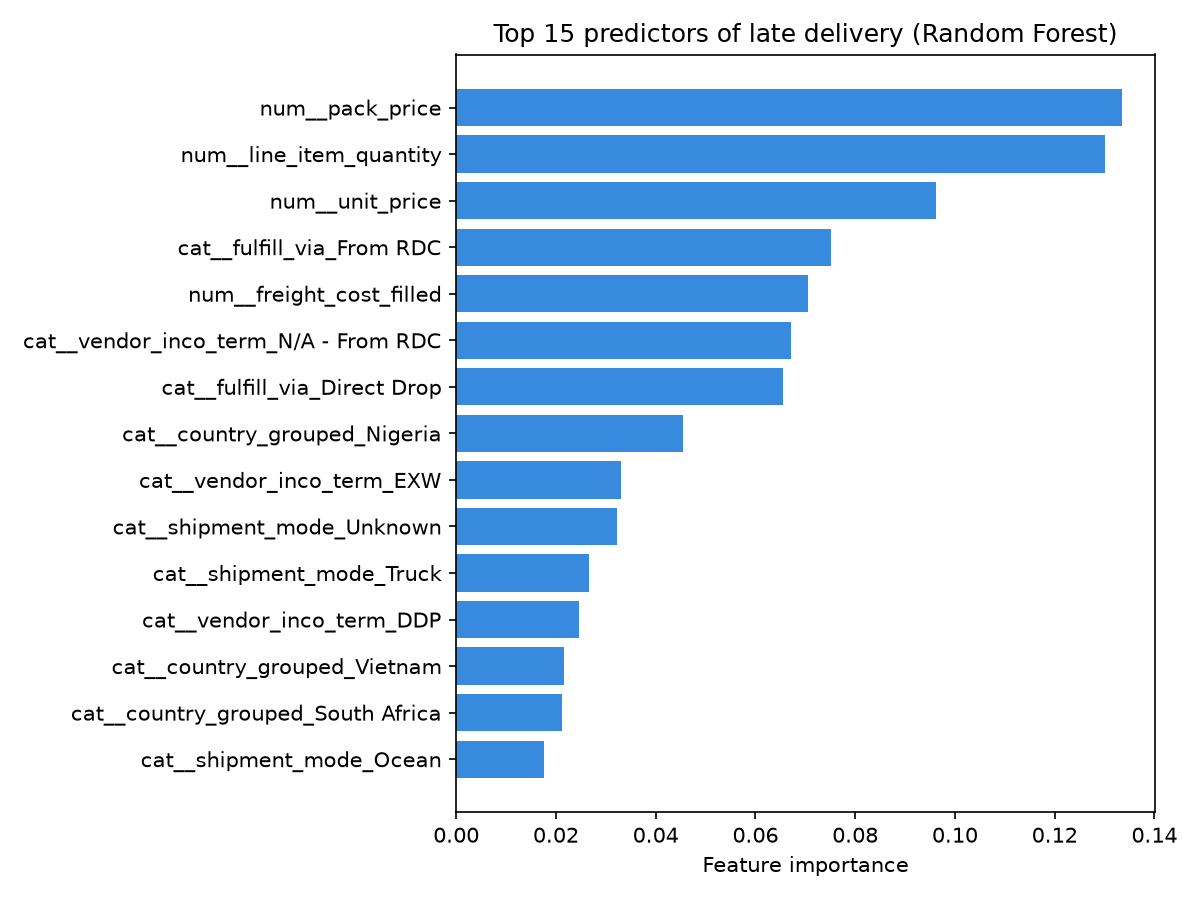
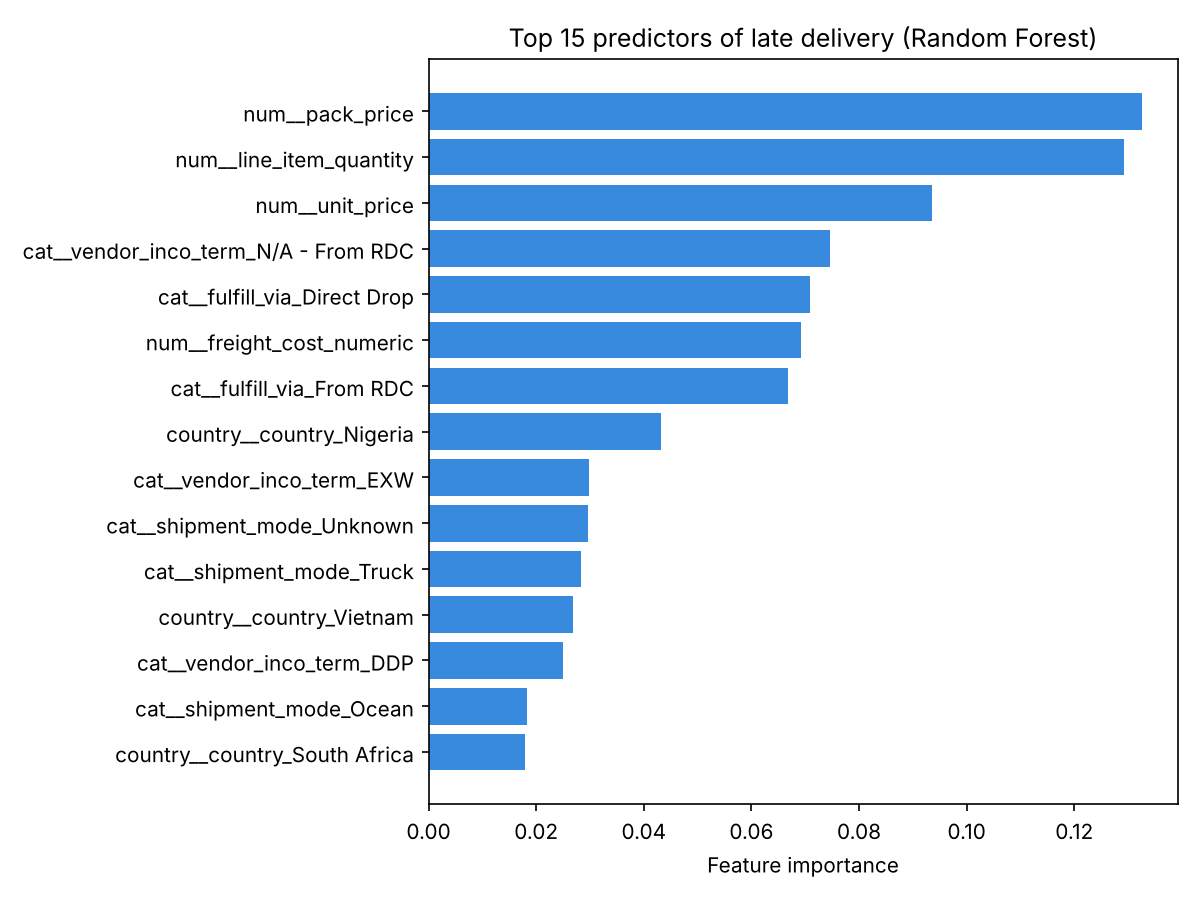
Fit preprocessing on training data only and correct model claims
Country grouping and freight-cost imputation now sit inside the model pipeline. Results at the default 0.5 cut-off: ROC-AUC 0.82, 90% recall, 23% precision. Removed the threshold-tuning claim and described route differences as associations.

Changed region(s): [[0.0308, 0.0622, 0.9867, 0.9956], [0.4008, 0.0311, 0.9558, 0.0622], [0.6475, 0.3422, 0.6783, 0.4356]]

diff --git a/predict_late_deliveries.py b/predict_late_deliveries.py
@@ -1,120 +1,134 @@
+"""
+Late-delivery classification for USAID health-commodity shipments.
+
+Every step that learns from the data (country grouping, freight-cost imputation,
+scaling, encoding) is fitted on the training split only, inside the model pipeline.
+The test split is touched once, for evaluation.
+
+Results are reported at the default 0.5 probability cut-off. No threshold is tuned.
+Balanced class weights make the models favour catching late shipments (recall)
+over precision, because only 11.5% of shipments are late.
+"""
+import matplotlib.pyplot as plt
+import numpy as np
 import pandas as pd
+from sklearn.base import BaseEstimator, TransformerMixin
+from sklearn.compose import ColumnTransformer
+from sklearn.ensemble import RandomForestClassifier
+from sklearn.impute import SimpleImputer
+from sklearn.linear_model import LogisticRegression
+from sklearn.metrics import (average_precision_score, classification_report,
+                             confusion_matrix, roc_auc_score)
+from sklearn.model_selection import train_test_split
+from sklearn.pipeline import Pipeline
+from sklearn.preprocessing import OneHotEncoder, StandardScaler
 
 # --- Step 1: Load the SQL-validated, cleaned dataset ---
 df = pd.read_csv("data/shipments_for_powerbi.csv")
-
 print("Shape:", df.shape)
-print("\nColumns:", list(df.columns))
-print("\nMissing values (top 10):")
-print(df.isna().sum().sort_values(ascending=False).head(10))
 
-# Target: was this shipment delivered late?
+# Target: was this shipment delivered after its scheduled date?
 df["is_late"] = (df["delay_days"] > 0).astype(int)
-print("\nTarget distribution:")
-print(df["is_late"].value_counts(normalize=True).round(3))
+print("Late rate:", round(df["is_late"].mean(), 3))
 
-# --- Step 2: Feature engineering ---
-# Excluded on purpose (leakage): delivered_to_client_date, delivery_recorded_date,
-# delay_days -- these are only known AFTER delivery, i.e. after the outcome
-# we're predicting. Only features knowable at ship time go in.
+# --- Step 2: Features known at ship time ---
+# Excluded on purpose (leakage): delivered_to_client_date, delivery_recorded_date and
+# delay_days are only known after delivery, i.e. after the outcome being predicted.
+cat_cols = ["shipment_mode", "country", "product_group", "vendor_inco_term", "fulfill_via"]
+num_cols = ["line_item_quantity", "pack_price", "unit_price", "freight_cost_numeric"]
 
-candidate_categoricals = ["shipment_mode", "country", "product_group",
-                           "vendor_inco_term", "fulfill_via", "managed_by"]
-print("\n--- Cardinality of candidate categorical features ---")
-for c in candidate_categoricals:
-    print(f"{c}: {df[c].nunique()} unique values")
-
-# Country has too many rare categories to one-hot encode cleanly -- group
-# anything below the same n>=30 threshold used in the EDA/SQL work into 'Other'.
-country_counts = df["country"].value_counts()
-frequent_countries = country_counts[country_counts >= 30].index
-df["country_grouped"] = df["country"].where(df["country"].isin(frequent_countries), "Other")
-print(f"\nCountries kept individually: {len(frequent_countries)}, rest grouped into 'Other'")
-
-# Missing shipment_mode and missing freight_cost are informative on their own
-# (found in EDA to correlate with lateness/cost) -- keep as explicit categories/flags
-# rather than dropping or silently imputing them away.
-df["shipment_mode"] = df["shipment_mode"].fillna("Unknown")
-df["freight_missing"] = df["freight_cost_numeric"].isna().astype(int)
-df["freight_cost_filled"] = df["freight_cost_numeric"].fillna(df["freight_cost_numeric"].median())
-
-feature_cols_cat = ["shipment_mode", "country_grouped", "product_group",
-                     "vendor_inco_term", "fulfill_via"]
-feature_cols_num = ["line_item_quantity", "pack_price", "unit_price",
-                     "freight_cost_filled", "freight_missing"]
-
-print("\nFinal feature set:")
-print("Categorical:", feature_cols_cat)
-print("Numeric:", feature_cols_num)
-
-# --- Step 3: Train/test split + preprocessing pipeline ---
-from sklearn.model_selection import train_test_split
-from sklearn.compose import ColumnTransformer
-from sklearn.preprocessing import OneHotEncoder, StandardScaler
-from sklearn.pipeline import Pipeline
-
-X = df[feature_cols_cat + feature_cols_num]
+X = df[cat_cols + num_cols]
 y = df["is_late"]
 
+# --- Step 3: Split first, so nothing below learns from the test rows ---
 X_train, X_test, y_train, y_test = train_test_split(
-    X, y, test_size=0.2, random_state=42, stratify=y
-)
-print(f"\nTrain: {X_train.shape[0]} rows, Test: {X_test.shape[0]} rows")
-print("Train target rate:", round(y_train.mean(), 3), "| Test target rate:", round(y_test.mean(), 3))
+    X, y, test_size=0.2, random_state=42, stratify=y)
+print(f"Train: {len(X_train)} rows, test: {len(X_test)} rows")
 
-preprocessor = ColumnTransformer(transformers=[
-    ("cat", OneHotEncoder(handle_unknown="ignore"), feature_cols_cat),
-    ("num", StandardScaler(), feature_cols_num),
+
+class GroupRareCategories(BaseEstimator, TransformerMixin):
+    """Replace categories seen fewer than `min_count` times in TRAINING data with 'Other'."""
+
+    def __init__(self, min_count=30):
+        self.min_count = min_count
+
+    def fit(self, X, y=None):
+        X = pd.DataFrame(X)
+        self.keep_ = {c: set(X[c].value_counts().loc[lambda s: s >= self.min_count].index)
+                      for c in X.columns}
+        return self
+
+    def transform(self, X):
+        X = pd.DataFrame(X).copy()
+        for c, keep in self.keep_.items():
+            X[c] = X[c].where(X[c].isin(keep), "Other")
+        return X
+
+    def get_feature_names_out(self, input_features=None):
+        return np.asarray(input_features if input_features is not None else list(self.keep_))
+
+
+categorical = Pipeline([
+    # Missing shipment mode is informative in the EDA, so it becomes its own category.
+    ("fill", SimpleImputer(strategy="constant", fill_value="Unknown")),
+    ("to_frame", GroupRareCategories(min_count=1).set_output(transform="pandas")),
+    ("onehot", OneHotEncoder(handle_unknown="ignore")),
 ])
+country = Pipeline([
+    ("fill", SimpleImputer(strategy="constant", fill_value="Unknown")),
+    # Countries with fewer than 30 training shipments are grouped, as in the EDA and SQL work.
+    ("group", GroupRareCategories(min_count=30).set_output(transform="pandas")),
+    ("onehot", OneHotEncoder(handle_unknown="ignore")),
+])
+numeric = Pipeline([
+    # Median from the training split only; the indicator keeps "freight cost missing" as a signal.
+    ("impute", SimpleImputer(strategy="median", add_indicator=True)),
+    ("scale", StandardScaler()),
+])
+preprocessor = ColumnTransformer([
+    ("cat", categorical, [c for c in cat_cols if c != "country"]),
+    ("country", country, ["country"]),
+    ("num", numeric, num_cols),
+]).set_output(transform="default")
 
 # --- Step 4: Train two models ---
-# class_weight="balanced" matters here: only 11.5% of shipments are late,
-# so an unweighted model could just predict "never late" and still be 88.5% "accurate".
-from sklearn.linear_model import LogisticRegression
-from sklearn.ensemble import RandomForestClassifier
+models = {
+    "Logistic Regression": LogisticRegression(max_iter=2000, class_weight="balanced", random_state=42),
+    "Random Forest": RandomForestClassifier(n_estimators=300, max_depth=8, class_weight="balanced",
+                                            random_state=42, n_jobs=-1),
+}
+fitted = {}
+for name, est in models.items():
+    fitted[name] = Pipeline([("prep", preprocessor), ("model", est)]).fit(X_train, y_train)
 
-log_reg = Pipeline([
-    ("prep", preprocessor),
-    ("model", LogisticRegression(max_iter=1000, class_weight="balanced", random_state=42)),
-])
-log_reg.fit(X_train, y_train)
-print("Logistic Regression trained.")
-
-rf = Pipeline([
-    ("prep", preprocessor),
-    ("model", RandomForestClassifier(n_estimators=300, max_depth=8,
-                                      class_weight="balanced", random_state=42, n_jobs=-1)),
-])
-rf.fit(X_train, y_train)
-print("Random Forest trained.")
-
-# --- Step 5: Evaluate on held-out test set ---
-from sklearn.metrics import classification_report, confusion_matrix, roc_auc_score
-
-for name, model in [("Logistic Regression", log_reg), ("Random Forest", rf)]:
+# --- Step 5: Evaluate once on the held-out test split (0.5 cut-off) ---
+results = []
+for name, model in fitted.items():
     preds = model.predict(X_test)
     probs = model.predict_proba(X_test)[:, 1]
+    tn, fp, fn, tp = confusion_matrix(y_test, preds).ravel()
+    results.append({"model": name, "roc_auc": roc_auc_score(y_test, probs),
+                    "pr_auc": average_precision_score(y_test, probs),
+                    "recall_late": tp / (tp + fn), "precision_late": tp / (tp + fp),
+                    "tp": tp, "fp": fp, "fn": fn, "tn": tn})
     print(f"\n=== {name} ===")
-    print(classification_report(y_test, preds, target_names=["On-time/early", "Late"]))
-    print("ROC-AUC:", round(roc_auc_score(y_test, probs), 3))
-    print("Confusion matrix [[TN FP] [FN TP]]:")
-    print(confusion_matrix(y_test, preds))
+    print(classification_report(y_test, preds, target_names=["On time or early", "Late"]))
+summary = pd.DataFrame(results)
+print(summary.round(3).to_string(index=False))
+summary.round(4).to_csv("model_results.csv", index=False)
 
-# --- Step 6: Feature importance from the Random Forest (the stronger model) ---
-import matplotlib.pyplot as plt
-
-feature_names = rf.named_steps["prep"].get_feature_names_out()
-importances = rf.named_steps["model"].feature_importances_
-importance_df = pd.DataFrame({"feature": feature_names, "importance": importances})
-importance_df = importance_df.sort_values("importance", ascending=False).head(15)
-
-print("\n--- Top 15 features driving late-delivery predictions ---")
-print(importance_df.to_string(index=False))
+# --- Step 6: Feature importance from the Random Forest ---
+rf = fitted["Random Forest"]
+names = rf.named_steps["prep"].get_feature_names_out()
+imp = (pd.DataFrame({"feature": names, "importance": rf.named_steps["model"].feature_importances_})
+       .sort_values("importance", ascending=False).head(15))
+print("\nTop 15 features by Random Forest importance (predictive, not causal):")
+print(imp.to_string(index=False))
 
 fig, ax = plt.subplots(figsize=(8, 6))
-ax.barh(importance_df["feature"][::-1], importance_df["importance"][::-1], color="#378ADD")
+ax.barh(imp["feature"][::-1], imp["importance"][::-1], color="#378ADD")
 ax.set_xlabel("Feature importance")
 ax.set_title("Top 15 predictors of late delivery (Random Forest)")
 plt.tight_layout()
 plt.savefig("plots/06_feature_importance.png", dpi=150)
-print("\nSaved plots/06_feature_importance.png")
+print("\nSaved plots/06_feature_importance.png and model_results.csv")

diff --git a/RECOMMENDATIONS_MEMO.md b/RECOMMENDATIONS_MEMO.md
@@ -8,7 +8,7 @@
 
 ## Executive summary
 
-Across 10,324 shipments, **11.5% arrived late**. The strongest, most actionable driver isn't shipment mode or destination country — it's **how the shipment was fulfilled**. Shipments routed through a Regional Distribution Center (RDC) with no clearly defined Incoterm were late **17.2% of the time**, versus **5.3%** for shipments sent Direct Drop from the vendor — a **3.2x difference** on two large, comparably-sized samples (5,404 vs. 4,920 shipments). That single factor outweighs everything else examined in this analysis and should be the first place operational attention goes.
+Across 10,324 shipments, **11.5% arrived late**. The clearest difference isn't between shipment modes or destination countries. It's between **fulfilment routes**. Shipments routed through a Regional Distribution Center (RDC) with no clearly defined Incoterm were late **17.2% of the time**, versus **5.3%** for shipments sent Direct Drop from the vendor — a **3.2x difference** on two large, comparably-sized samples (5,404 vs. 4,920 shipments). This is an observed association, not proof that the route causes delays, since route also varies with order size, product and destination. It is still the largest gap examined here and the first place to investigate.
 
 ## Key findings
 
@@ -44,7 +44,7 @@ Air Charter costs roughly double standard Air ($21,052 vs. $10,459 average freig
 </p>
 
 **4. Large, low-unit-cost bulk orders are more likely to be late.**
-Late shipments have a median quantity 2.5x higher than on-time ones (10,424 vs. 4,122 units) and a lower unit price ($0.14 vs. $0.18) — consistent with large bulk orders facing more logistics/customs friction. A Random Forest model built on this data confirms order size and fulfilment route outrank shipment mode as predictors (ROC-AUC 0.82, catching 89% of shipments that go on to be late).
+Late shipments have a median quantity 2.5x higher than on-time ones (10,424 vs. 4,122 units) and a lower unit price ($0.14 vs. $0.18) — consistent with large bulk orders facing more logistics/customs friction. A Random Forest model built on this data ranks order size and fulfilment route above shipment mode as predictors (ROC-AUC 0.82 on held-out data, catching 90% of shipments that go on to be late). Predictive importance is not evidence of cause.
 
 <p float="left">
   <img src="plots/16_numeric_features_by_late_status.png" width="48%" />
@@ -62,7 +62,7 @@ Late rate was near-zero from 2006–2009 (0–3.6%), then jumped to 15.9% in 201
 2. **For Mozambique, Zambia, and Zimbabwe:** shift a larger share of volume from Truck to Air where budget allows — this is the same lever that already works well everywhere else.
 3. **For Burundi and Congo, DRC:** investigate in-country customs and last-mile handling specifically. Switching shipment mode won't help here, since both countries are already almost entirely Air.
 4. **Investigate the 2010 shift directly** — pull internal records on when RDC-based fulfilment scaled up, and test whether it lines up with the jump in late deliveries.
-5. **Use the predictive model as a triage tool**, not a gatekeeper: flag large-quantity, low-unit-price, RDC-routed shipments for proactive monitoring before they ship, rather than trying to block them outright (the model's precision is intentionally low — 23% — because it was tuned to catch as many true late shipments as possible, at the cost of some false alarms).
+5. **Use the predictive model as a triage tool**, not a gatekeeper: flag large-quantity, low-unit-price, RDC-routed shipments for proactive monitoring before they ship, rather than trying to block them outright (the model's precision is low, 23%, because balanced class weights favour catching late shipments at the cost of false alarms).
 
 ## Caveats and limitations
 

diff --git a/README.md b/README.md
@@ -2,7 +2,7 @@
 
 End-to-end analysis of 10,324 real health-commodity shipments (HIV test kits, ARVs) to 43 countries, using R, SQL, Power BI, and Python — each tool applied where it's actually the right tool, not as a checklist exercise.
 
-**Headline finding:** shipment fulfilment route is a bigger driver of lateness than shipping mode or destination country. Shipments routed through a Regional Distribution Center with no defined Incoterm were late **17.2%** of the time, vs. **5.3%** for shipments sent directly from the vendor.
+**Headline finding:** the clearest observed difference in late delivery is by fulfilment route. Shipments routed through a Regional Distribution Center with no defined Incoterm were late **17.2%** of the time, vs. **5.3%** for shipments sent directly from the vendor. This is an association: route also varies with order size, product and destination.
 
 📄 **[Read the full recommendation memo](RECOMMENDATIONS_MEMO.md)** — findings, charts, and business recommendations in one document.
 
@@ -24,7 +24,7 @@ End-to-end analysis of 10,324 real health-commodity shipments (HIV test kits, AR
 └── RECOMMENDATIONS_MEMO.md      # Written findings and business recommendations
 ```
 
-**Note:** the actual Power BI `.pbix` file isn't included here (it was built directly in Power BI Desktop) — only the theme it uses. If you want the dashboard itself in the repo, export it as `powerbi/usaid_supply_chain.pbix`.
+**Note:** the Power BI dashboard file is not yet in this repository, only the theme it uses. The [interactive evidence view on my portfolio](https://chigozie-nkwopara.netlify.app/usaid-case-study) reproduces its main comparisons from the same data.
 
 ## What each layer does
 
@@ -34,7 +34,7 @@ End-to-end analysis of 10,324 real health-commodity shipments (HIV test kits, AR
 
 **Power BI** — Two-page dashboard (Overview + Country deep-dive) with DAX measures, a custom flat theme, and a heatmap-style matrix visual. Building it surfaced a second real bug: the CSV export's Windows-style line endings caused Power Query to silently double every row, which inflated `Total Shipments` and diluted `% Late` until traced to the line-ending issue and fixed.
 
-**Python (`predict_late_deliveries.py`)** — A Random Forest classifier predicting whether a shipment will be late (ROC-AUC 0.82, 89% recall on late shipments — tuned deliberately for recall over precision, since missing a genuinely late shipment of HIV/ARV medication costs more than a false alarm). Feature importance revealed that order size (`pack_price`, `line_item_quantity`) and fulfilment route outrank shipment mode as predictors — a finding the R/SQL layers, which only looked at one variable at a time, couldn't have surfaced on their own.
+**Python (`predict_late_deliveries.py`)** — A Random Forest classifier predicting whether a shipment will be late. On the held-out 20% test split it reaches ROC-AUC 0.82 and catches 90% of late shipments, with 23% precision, at the default 0.5 cut-off. No threshold was tuned; balanced class weights are what push the model towards recall. Every step that learns from the data (country grouping, freight-cost imputation, scaling and encoding) is fitted on the training split only, inside the model pipeline. Results are saved to `model_results.csv`. Feature importance shows order size (`pack_price`, `line_item_quantity`) and fulfilment route rank above shipment mode as predictors. Importance describes what the model uses to predict, not what causes a delay.
 
 ## How to reproduce
 
